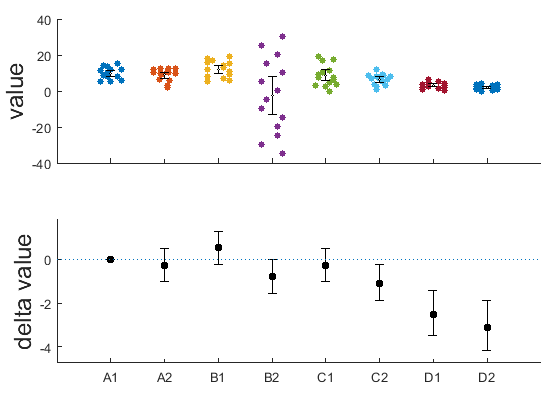
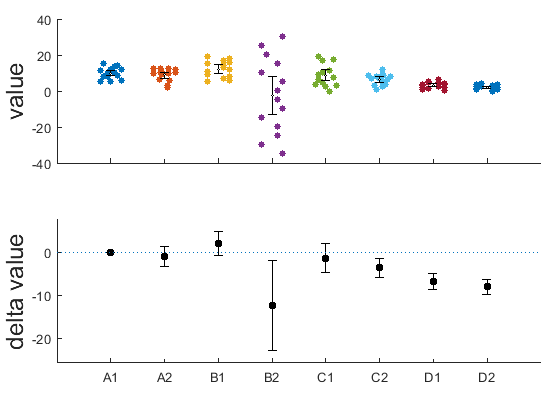
ES measures are set to m-diff

diff --git a/Plotting/FscatJit2.m b/Plotting/FscatJit2.m
@@ -225,20 +225,12 @@ if length(celld)==2;
 
     
     % Get the mean difference and CIs
-%     esm='md';
-%     if strcmp(isPaired, 'Y')
-%         ss=mes(celld{2},celld{1},esm, 'isDep', 1);
-%     else
-%         ss=mes(celld{2},celld{1},esm);
-%     end
-%     avr=repmat(ss.md,2, 1);
-%     moes=abs(avr-ss.mdCi);
  
     esm='md';
     if strcmp(isPaired, 'Y')
-        ss=mes(celld{2},celld{1},esm, 'isDep', 1);
+        ss=mes(celld{2},celld{1},esm,'nBoot',10000, 'isDep', 1);
     else
-        ss=mes(celld{2},celld{1},esm);
+        ss=mes(celld{2},celld{1},esm,'nBoot',10000);
     end
     avr=repmat(ss.md,2, 1);
     moes=abs(avr-ss.mdCi);
@@ -366,19 +358,18 @@ else
     end
     
     % Get the mean difference and CIs
-    esm='hedgesg';
+    esm='md';
     clear moes;
-    
     
     avr = zeros(2, length(celld));
     moes = zeros(2, length(celld));
     ci = zeros(2, length(celld));
     
     for idx = 2:length(celld)
-        ss=mes(celld{idx},celld{1},esm);
-        avr(:,idx)=repmat(ss.hedgesg,2, 1);
-        moes(:,idx)=abs(avr(:,idx)-ss.hedgesgCi);
-        ci(:,idx) = ss. hedgesgCi;
+        ss=mes(celld{idx},celld{1},esm,'nBoot',10000);
+        avr(:,idx)=repmat(ss.md,2, 1);
+        moes(:,idx)=abs(avr(:,idx)-ss.mdCi);
+        ci(:,idx) = ss.mdCi;
     end
     
     [ciMin, ~] = min(ci(1,:));
@@ -417,9 +408,9 @@ else
         idx = 1;
         jdx = 1;
         while jdx < length(celld)
-            ss=mes(celld{jdx+1},celld{jdx},esm);
-            avr(:,idx)=repmat(ss.hedgesg,2, 1);
-            moes(:,idx)=abs(avr(:,idx)-ss.hedgesgCi);
+            ss=mes(celld{jdx+1},celld{jdx},esm,'nBoot',10000);
+            avr(:,idx)=repmat(ss.md,2, 1);
+            moes(:,idx)=abs(avr(:,idx)-ss.mdCi);
             jdx = jdx+2;
             idx = idx + 1;
         end

diff --git a/Plotting/FscatJit2_mergeGroups.m b/Plotting/FscatJit2_mergeGroups.m
@@ -298,14 +298,6 @@ if length(celld)==2;
 
     
     % Get the mean difference and CIs
-%     esm='md';
-%     if strcmp(isPaired, 'Y')
-%         ss=mes(celld{2},celld{1},esm, 'isDep', 1);
-%     else
-%         ss=mes(celld{2},celld{1},esm);
-%     end
-%     avr=repmat(ss.md,2, 1);
-%     moes=abs(avr-ss.mdCi);
  
     esm='md';
     if strcmp(isPaired, 'Y')
@@ -316,7 +308,6 @@ if length(celld)==2;
     
     avr=repmat(ss.md,2, 1)
     moes=abs(avr-ss.mdCi)
-    
 
     % Position of the reference axes (the axes that hold the scatjit_Tayfun)
     refAxes = gca;
